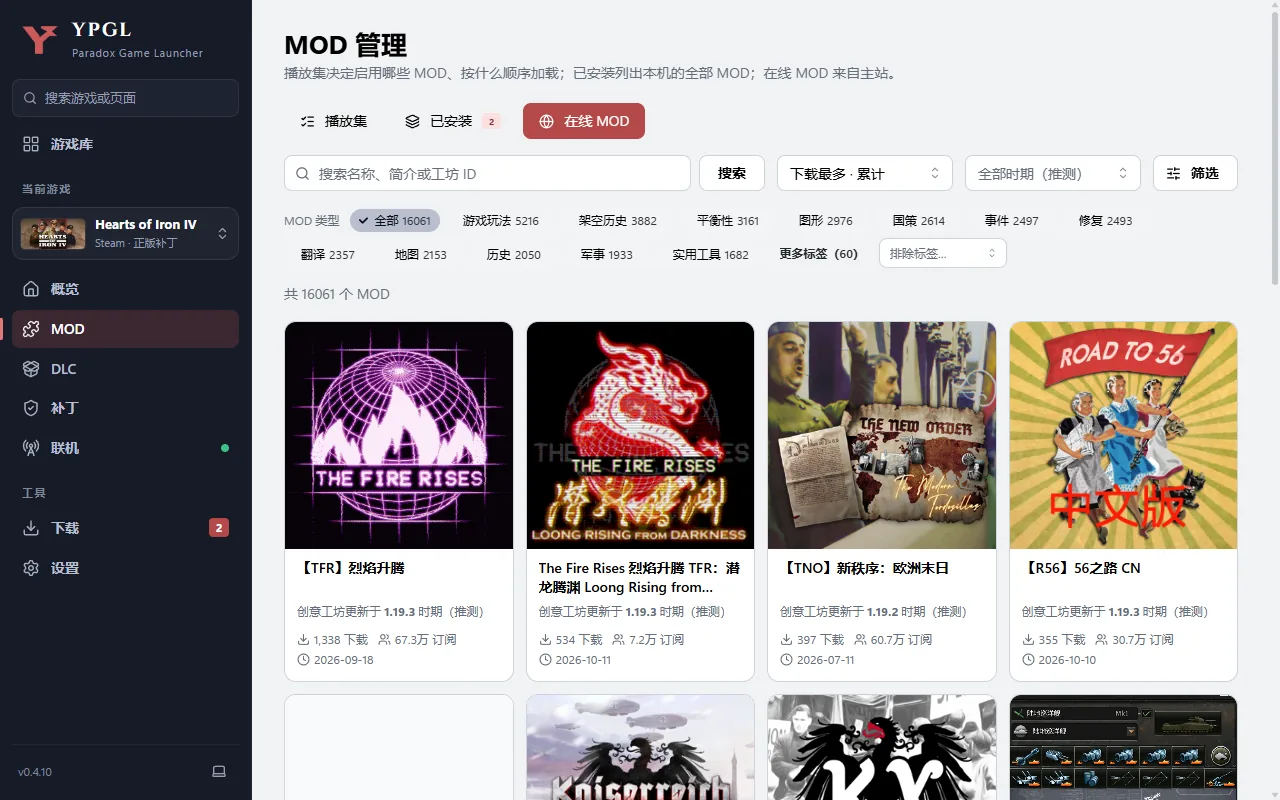
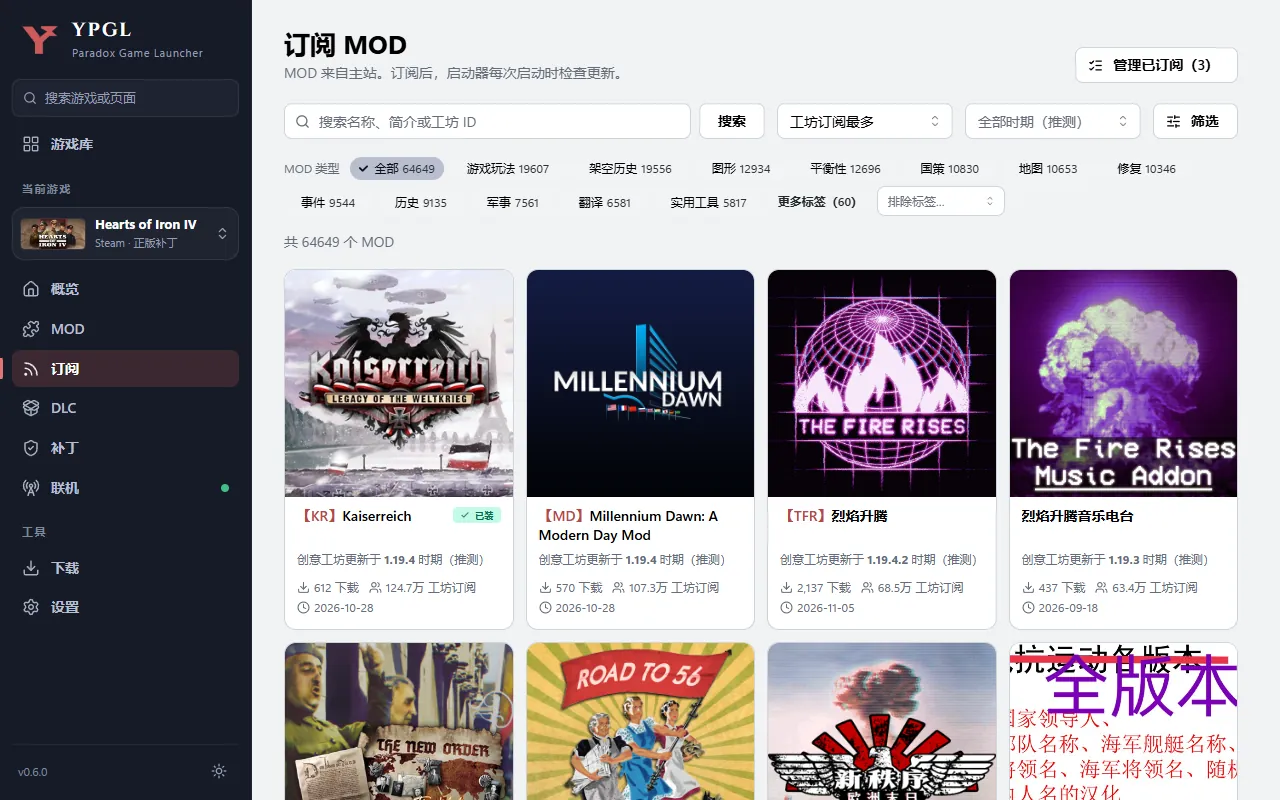
docs(launcher): cover 0.6.0 subscriptions, autosaving playsets and the 4551 block
Launcher 0.6.0 moves the site MOD catalogue to a separate 订阅 page, saves playsets immediately and writes them only when the game starts, and explains Windows App Control blocks. The guide still told players to use the 在线 MOD tab and press 应用到游戏, and its screenshots showed buttons that no longer exist.

diff --git a/docs/launcher/mods.md b/docs/launcher/mods.md
@@ -1,28 +1,39 @@
-# MOD 与播放集
+# MOD、订阅与播放集
 
-MOD 页有三个视图：**在线 MOD**（主站资源）、**已安装**（本机全部 MOD）、**播放集**（决定启用哪些 MOD、按什么顺序加载）。
+主站的 MOD 在左侧栏的 **订阅** 页下载；**MOD** 页有两个视图：**播放集**（决定启用哪些 MOD、按什么顺序加载）和 **已安装**（本机全部 MOD）。
 
-## 安装 MOD
+## 订阅与安装
 
-![在线 MOD](/images/launcher/mod-browse.webp)
+![订阅页](/images/launcher/mod-browse.webp)
 
-1. 打开 MOD 页的「在线 MOD」，按名称或创意工坊 ID 搜索。
-2. 进入详情，点击安装，进度在详情页和下载页都能看到。
+1. 打开左侧栏的「订阅」，按名称或创意工坊 ID 搜索。
+2. 进入详情，点「订阅」：启动器记下订阅并安装，之后由它保持更新。只想要当前这一版就点「只安装这一版」。
 3. 第一次安装会让你确认 MOD 存放位置，建议选系统盘以外的磁盘。
 
+- 进度在详情页和下载页都能看到。
 - 依赖 MOD 只做提醒，不会自动安装，可以按需勾选，或前往创意工坊订阅。
-- 本地压缩包：在「已安装」里点「导入 ZIP」，或者直接拖进窗口。
+- 本地压缩包：在 MOD 页「已安装」里点「导入 ZIP」，或者直接拖进窗口。
+
+### 订阅的 MOD 怎么更新
+
+- 每次打开启动器时检查一次已订阅、已安装的 MOD。默认有新版就自动更新，也可以在 <MenuPath path="设置 / MOD / 订阅的 MOD 有更新时" /> 改成「只提醒」。
+- 游戏或 P 社官方启动器正在运行时不会替换文件，这次的更新会跳过并提醒，关掉游戏后到 MOD 页更新即可。
+- 订阅页右上角的「管理已订阅（N）」会打开「已安装」里只看已订阅的列表。每行的订阅开关可以单独开关，也可以多选后批量订阅或取消。
+- 取消订阅不会删除文件。在「已安装」里删除 MOD 时，本机没有同一来源的其他副本就会一起取消订阅。
+- Steam 工坊订阅的副本由 Steam 更新，手动导入的 ZIP 没法对照主站版本，这两类不能在这里订阅，表格里会写明原因。
 
 ## 播放集
 
 ![播放集](/images/launcher/mod-playsets.webp)
 
 1. 选择一个播放集，或点「新建」。
-2. 点「添加 MOD」挑选已安装的 MOD，用开关启用或停用，拖动调整加载顺序（越靠下越后加载）。
-3. 点「应用到游戏」。
+2. 点「添加 MOD」挑选已安装的 MOD，用开关启用或停用，拖动调整加载顺序（越靠下越后加载）；也可以直接改左边的序号后回车。
+3. 回到概览页点「开始游戏」，启动器会按选中的播放集写入游戏的 MOD 设置。
 
-- 修改播放集前先关闭游戏和 P 社官方启动器。之后再打开官方启动器，它可能把 MOD 列表改回去，建议统一从 YPGL 启动。
-- 「⋯」菜单可以导出、导入 JSON，方便和朋友同步 MOD 列表。
+- 和 P 社官方启动器一样改了就存，没有「保存」按钮。改错了点「撤销上一步」，或按 <kbd>Ctrl</kbd> + <kbd>Z</kbd>。
+- 第一次选择或新建播放集时，游戏原来的启用列表会先存成播放集「原启用列表」，随时可以切回去。
+- 写入 MOD 设置时游戏和官方启动器需要关着，没关的话启动器会提示。之后单独打开官方启动器，它可能把 MOD 列表改回去；关掉它，从 YPGL 再开一次游戏就会按播放集写回。
+- 不从 YPGL 启动游戏的话，可以在「⋯」菜单里选「现在应用到游戏」。「⋯」菜单还可以导出、导入 JSON，方便和朋友同步 MOD 列表。
 - 从播放集移除 MOD 不会删除文件；在「已安装」里删除 MOD 无法撤销，正在使用的 MOD 删除后相关存档将无法读取。
-- Steam 订阅的 MOD 由 Steam 管理，启动器只读取、不删除。
-- 城市：天际线系列的 MOD 请用 Skyve 管理。
+- Steam 工坊订阅的 MOD 由 Steam 管理，启动器只读取、不删除。
+- 城市：天际线系列的 MOD 请用 Skyve 管理，这两款游戏没有「订阅」页。

diff --git a/docs/launcher/index.md b/docs/launcher/index.md
@@ -13,7 +13,7 @@
 
 ## 三步上手
 
-1. **选游戏，补内容**：在 [游戏库](./library) 进入游戏，没认出来就「添加目录」；再到 [DLC](./library#dlc) 和 [MOD](./mods) 页补齐内容。
+1. **选游戏，补内容**：在 [游戏库](./library) 进入游戏，没认出来就「添加目录」；再到 [DLC](./library#dlc) 页和 [订阅](./mods) 页补齐内容，在 MOD 页的 [播放集](./mods#播放集) 里选好启用哪些。
 2. **打补丁**：在 [补丁](./patches) 页选择正版补丁或局域网补丁。
 3. **开始游戏**：要联机先到 [联机](./multiplayer) 页和朋友进同一个房间，然后在概览页点「开始游戏」。
 
@@ -21,6 +21,6 @@
 
 「开始游戏」会直接启动游戏，**不经过 P 社官方启动器**（局域网补丁由补丁自带的启动程序启动）。下方「出征前检查」列出补丁、DLC、播放集、联机四项状态，有问题时旁边会给出处理按钮。
 
-左侧栏依次是游戏库、当前游戏的五个页面（概览、MOD、DLC、补丁、联机）、下载和设置。按 <kbd>Ctrl</kbd> + <kbd>K</kbd> 可以快速跳到任意游戏或页面。
+左侧栏依次是游戏库、当前游戏的页面（概览、MOD、订阅、DLC、补丁、联机）、下载和设置。城市：天际线系列没有「订阅」页。按 <kbd>Ctrl</kbd> + <kbd>K</kbd> 可以快速跳到任意游戏或页面。
 
 支持的游戏：钢铁雄心4、十字军之王3、欧陆风云4、欧陆风云5、群星、维多利亚3、帝国：罗马、城市：天际线、城市：天际线2。

diff --git a/docs/launcher/faq.md b/docs/launcher/faq.md
@@ -14,7 +14,15 @@
 
 ### MOD 没加载，或被改回去了
 
-在概览页确认播放集显示「已应用到游戏」，并且从 YPGL 启动，不要用 P 社官方启动器或 `dowser.exe` 启动。
+在概览页的「出征前检查」看播放集一行：显示「已应用到游戏」或「启动时写入启用列表」都可以。然后从 YPGL 点「开始游戏」，不要用 P 社官方启动器或 `dowser.exe` 启动；启动器会在开游戏前按选中的播放集写入 MOD 设置。
+
+### 点「开始游戏」后提示「应用程序控制策略已阻止此文件」（os error 4551）
+
+这是 Windows 的应用控制拦下了启动程序，不是文件损坏，重装游戏或重新打补丁一般没用。
+
+1. 打开「Windows 安全中心 → 应用和浏览器控制 → 智能应用控制」查看状态。确认是它拦截的，可以自行选择关闭，但会降低整台电脑的防护，关闭前看清该页的提示。
+2. 公司或学校管理的电脑，请联系管理员检查应用控制策略和被拦截的文件。
+3. 处理后回到 YPGL 再点一次「开始游戏」。
 
 ### 下载慢或中断
 
